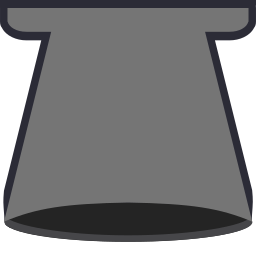
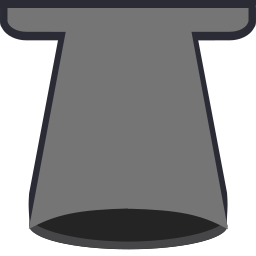
thruster sprite update & calculating center of group fix

Changed region(s): [[0.0, 0.125, 1.0, 1.0]]

diff --git a/Kocmoc/Assets/_Project/Scripts/Systems/Grid/GridBase.cs b/Kocmoc/Assets/_Project/Scripts/Systems/Grid/GridBase.cs
@@ -55,17 +55,6 @@ namespace Kocmoc
         public Vector2 GetCellWorldPositionLimited(int index, bool centerOfCell = false) => ApplyOriginTransform(GetCellPositionLimited(index, centerOfCell));
         public Vector2 GetCellWorldPositionLimited(Vector2Int coordinates, bool centerOfCell = false) => ApplyOriginTransform(GetCellPositionLimited(coordinates, centerOfCell));
 
-        private Vector2 ApplyOriginTransform(Vector2 position)
-        {
-            if (origin)
-            {
-                float angle = Vector2.SignedAngle(Vector2.up, origin.up);
-                Vector2 cellPosition = Quaternion.AngleAxis(angle, Vector3.forward) * position;
-                return (Vector2)origin.position + cellPosition;
-            }
-            return position;
-        }
-
         public Vector2Int PositionToCell(Vector2 position)
         {
             if (origin)
@@ -87,6 +76,20 @@ namespace Kocmoc
             return limitedCoordinates;
         }
 
+        #endregion
+
+        #region Cell groups
+        public Vector2 GetGroupCenterCoordinates(GridGroup group)
+        {
+            Vector2 center = group.origin + (Vector2)(group.size - Vector2.one) * .5f;
+            if (group.size.x < 0) center.x += 1;
+            if (group.size.y < 0) center.y += 1;
+            Debug.Log(center);
+            return center;
+        }
+
+        public Vector2 GetGroupCenterPosition(GridGroup group) => GetGroupCenterCoordinates(group) * cellSize;
+        public Vector2 GetGroupCenterWorldPosition(GridGroup group) => ApplyOriginTransform(GetGroupCenterPosition(group) * cellSize);
         #endregion
 
         #region Parameter setters
@@ -159,6 +162,17 @@ namespace Kocmoc
             int x = index % size.x;
             int y = index / size.x;
             return centered ? CenterInput(new Vector2Int(x, y)) : new Vector2Int(x, y);
+        }
+
+        private Vector2 ApplyOriginTransform(Vector2 position)
+        {
+            if (origin)
+            {
+                float angle = Vector2.SignedAngle(Vector2.up, origin.up);
+                Vector2 cellPosition = Quaternion.AngleAxis(angle, Vector3.forward) * position;
+                return (Vector2)origin.position + cellPosition;
+            }
+            return position;
         }
         #endregion
 

diff --git a/Kocmoc/Assets/_Project/Scripts/Gameplay/Ship/ShipData.cs b/Kocmoc/Assets/_Project/Scripts/Gameplay/Ship/ShipData.cs
@@ -37,8 +37,18 @@ namespace Kocmoc.Gameplay
             foreach (var cell in grid.GetCells())
             {
                 float cellMass = cell.value.mass;
-                newCenterOfMass += grid.GetCellPosition(cell.coordinates, centerOfCell: true) * cellMass;
-                totalMass += cellMass;
+                
+                if (cell.inGroup)
+                {
+                    if (!cell.isOrigin) continue;
+                    newCenterOfMass += grid.GetGroupCenterPosition(cell.group) * cellMass;
+                    totalMass += cellMass;
+                }
+                else
+                {
+                    newCenterOfMass += grid.GetCellPosition(cell.coordinates, centerOfCell: true) * cellMass;
+                    totalMass += cellMass;
+                }
             }
 
             centerOfMass = totalMass != 0 ? newCenterOfMass / totalMass : Vector2.zero;

diff --git a/Kocmoc/Assets/_Project/Scripts/Systems/Grid/GridSelector.cs b/Kocmoc/Assets/_Project/Scripts/Systems/Grid/GridSelector.cs
@@ -128,10 +128,7 @@ namespace Kocmoc
             {
                 if (grid.IsInGroup(coordinates, out GridGroup group))
                 {
-                    targetPosition = grid.GetCellWorldPosition(group.origin, centerCellPosition);
-                    if (group.size.x < 0) targetPosition.x += grid.cellSize;
-                    if (group.size.y < 0) targetPosition.y += grid.cellSize;
-
+                    targetPosition = grid.GetGroupCenterWorldPosition(group);
                     targetSize = group.size;
                 }
                 else

diff --git a/Kocmoc/Assets/_Project/Scripts/Gameplay/Ship/Ship.cs b/Kocmoc/Assets/_Project/Scripts/Gameplay/Ship/Ship.cs
@@ -81,7 +81,7 @@ namespace Kocmoc.Gameplay
             Vector3 centerOfMassDelta = (Vector3)data.centerOfMass - centerOfMass.position;
             if (centerOfMassDelta.sqrMagnitude > 0)
             {
-                centerOfMass.position = data.centerOfMass;
+                centerOfMass.localPosition = data.centerOfMass;
 
                 rb.mass = data.totalMass;
                 rb.inertia = data.totalMass;

diff --git a/Kocmoc/Assets/_Project/Scripts/UI/ShipEditor/ShipEditor.cs b/Kocmoc/Assets/_Project/Scripts/UI/ShipEditor/ShipEditor.cs
@@ -36,7 +36,7 @@ namespace Kocmoc.UI
         private void Update()
         {
             if (!active) return;
-            if (Input.GetKeyDown(KeyCode.R)) SetRotation(currentRotation.Next(skipIndexZero: true));
+            if (selectedBlueprint && Input.GetKeyDown(KeyCode.R)) SetRotation(currentRotation.Next(skipIndexZero: true));
         }
 
         public void SelectBlueprint(ShipCellBlueprint blueprint)

diff --git a/Kocmoc/Assets/_Project/Scripts/Gameplay/Camera/CameraMovement.cs b/Kocmoc/Assets/_Project/Scripts/Gameplay/Camera/CameraMovement.cs
@@ -37,7 +37,7 @@ namespace Kocmoc.Gameplay
 
         private void LateUpdate()
         {
-            if (Input.GetKeyDown(KeyCode.Space))
+            if (Input.GetKeyDown(KeyCode.Tab))
             {
                 ResetPosition();
                 return;

diff --git a/Kocmoc/Assets/_Project/Scripts/Systems/Grid/Grid.cs b/Kocmoc/Assets/_Project/Scripts/Systems/Grid/Grid.cs
@@ -12,7 +12,6 @@ namespace Kocmoc
         private Dictionary<int, GridCell<T>> cells;
 
         #region Cell setters
-
         public bool SetCell(int index, T value)
         {
             if (centered) index = UncenterInput(index);
